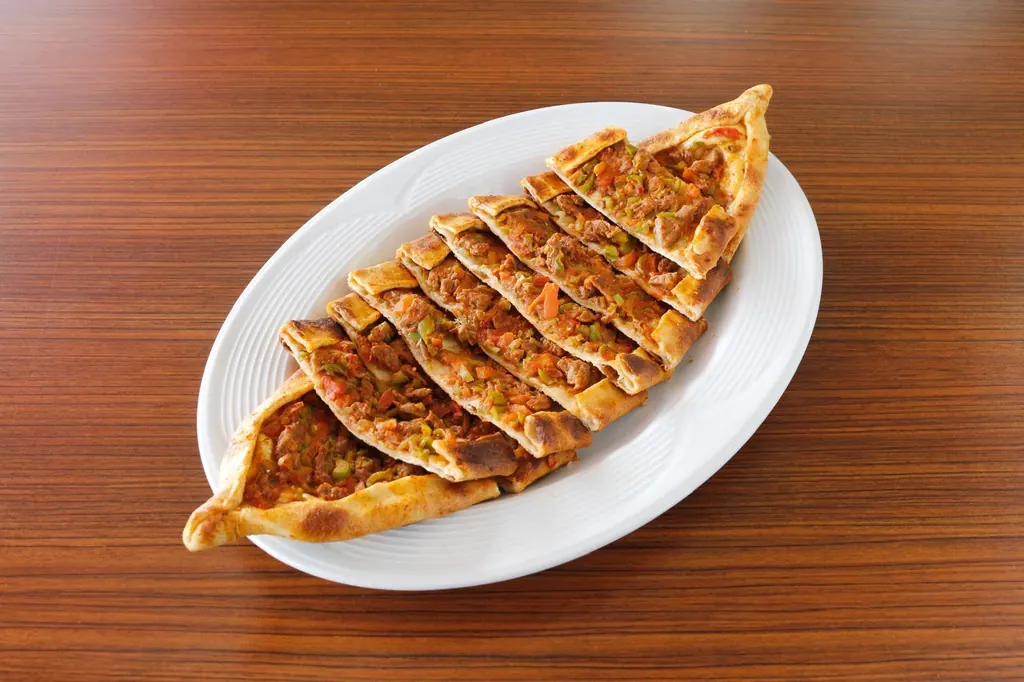
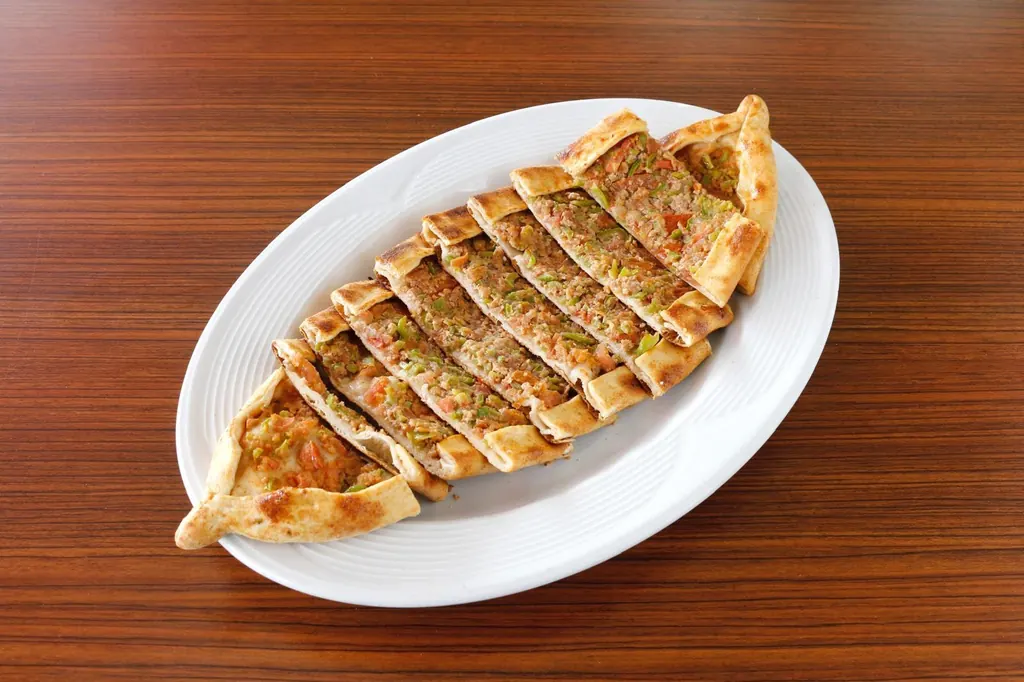
Menü basılı menüyle eşitlendi, görseller adlarıyla eşleştirildi
Bölümler ve sıralama basılı menüyü izliyor, Göbek Salata eklendi, ürün
notları kaldırıldı. Fotoğrafı olmayan ya da ayırt edilemeyen ürünlerin
görselleri broşürden kırpıldı.

diff --git a/index.html b/index.html
@@ -121,7 +121,7 @@
           <li class="reveal"><a class="cat" href="#menu" data-tab="pide">
             <span class="arch"><img src="assets/img/sucuklu-yumurtali-pide-480.webp" alt="" loading="lazy" width="480" height="320"></span>
             <strong>Pide</strong><small>Fırından çıtır çıtır</small></a></li>
-          <li class="reveal"><a class="cat" href="#menu" data-tab="lahmacun">
+          <li class="reveal"><a class="cat" href="#menu" data-tab="pide">
             <span class="arch"><img src="assets/img/lahmacun-480.webp" alt="" loading="lazy" width="480" height="320"></span>
             <strong>Lahmacun</strong><small>İnce hamur, bol iç</small></a></li>
           <li class="reveal"><a class="cat" href="#menu" data-tab="tatli">
@@ -188,142 +188,143 @@
         </div>
 
         <div class="tabs" role="tablist" aria-label="Menü kategorileri">
-          <button class="tab" type="button" role="tab" id="tab-doner" aria-controls="panel-doner" aria-selected="true">Döner &amp; İskender</button>
-          <button class="tab" type="button" role="tab" id="tab-kebap" aria-controls="panel-kebap" aria-selected="false">Izgara &amp; Kebap</button>
+          <button class="tab" type="button" role="tab" id="tab-doner" aria-controls="panel-doner" aria-selected="true">Döner</button>
+          <button class="tab" type="button" role="tab" id="tab-kebap" aria-controls="panel-kebap" aria-selected="false">Kebap</button>
           <button class="tab" type="button" role="tab" id="tab-tava" aria-controls="panel-tava" aria-selected="false">Sac Tava</button>
           <button class="tab" type="button" role="tab" id="tab-pide" aria-controls="panel-pide" aria-selected="false">Pide</button>
-          <button class="tab" type="button" role="tab" id="tab-lahmacun" aria-controls="panel-lahmacun" aria-selected="false">Lahmacun</button>
           <button class="tab" type="button" role="tab" id="tab-durum" aria-controls="panel-durum" aria-selected="false">Dürüm</button>
-          <button class="tab" type="button" role="tab" id="tab-yan" aria-controls="panel-yan" aria-selected="false">Çorba &amp; Salata</button>
+          <button class="tab" type="button" role="tab" id="tab-corba" aria-controls="panel-corba" aria-selected="false">Çorba</button>
+          <button class="tab" type="button" role="tab" id="tab-salata" aria-controls="panel-salata" aria-selected="false">Salata</button>
           <button class="tab" type="button" role="tab" id="tab-tatli" aria-controls="panel-tatli" aria-selected="false">Tatlı</button>
-          <button class="tab" type="button" role="tab" id="tab-icecek" aria-controls="panel-icecek" aria-selected="false">İçecek</button>
+          <button class="tab" type="button" role="tab" id="tab-mesrubat" aria-controls="panel-mesrubat" aria-selected="false">Meşrubat</button>
         </div>
 
         <div class="menu-board">
           <aside class="menu-preview" aria-hidden="true">
             <div class="arch arch--ring">
-              <img id="menu-preview-img" src="assets/img/iskender-1024.webp" alt="" width="1024" height="682">
+              <img id="menu-preview-img" src="assets/img/porsiyon-doner-1024.webp" alt="" width="1024" height="682">
             </div>
-            <p class="menu-preview__name" id="menu-preview-name">Tereyağlı İskender</p>
+            <p class="menu-preview__name" id="menu-preview-name">Porsiyon Et Döner</p>
           </aside>
 
           <div class="menu-panels">
             <div class="panel" role="tabpanel" id="panel-doner" aria-labelledby="tab-doner" tabindex="0">
-              <h3 class="panel__title">Döner &amp; İskender</h3>
+              <h3 class="panel__title">Döner Çeşitleri</h3>
               <ul class="menu-list">
-                <li><button class="mi" type="button" data-img="iskender"><img src="assets/img/iskender-480.webp" alt="" loading="lazy" width="56" height="56"><span class="mi__name">Tereyağlı İskender</span><span class="mi__note">Domates sosu ve tereyağıyla, közlenmiş biber eşliğinde</span></button></li>
-                <li><button class="mi" type="button" data-img="porsiyon-doner"><img src="assets/img/porsiyon-doner-480.webp" alt="" loading="lazy" width="56" height="56"><span class="mi__name">Porsiyon Et Döner</span><span class="mi__note">Patates ve közlenmiş biberle</span></button></li>
-                <li><button class="mi" type="button" data-img="pilav-ustu-doner"><img src="assets/img/pilav-ustu-doner-480.webp" alt="" loading="lazy" width="56" height="56"><span class="mi__name">Pilav Üstü Döner</span><span class="mi__note">Pirinç pilavı üzerinde</span></button></li>
-                <li><button class="mi" type="button" data-img="yarim-ekmek-doner"><img src="assets/img/yarim-ekmek-doner-480.webp" alt="" loading="lazy" width="56" height="56"><span class="mi__name">Yarım Ekmek Et Döner</span></button></li>
-                <li><div class="mi"><span class="mi__name">Üç Çeyrek Döner</span></div></li>
-                <li><div class="mi"><span class="mi__name">Tam Ekmek Döner</span></div></li>
-                <li><button class="mi" type="button" data-img="tombik-doner"><img src="assets/img/tombik-doner-480.webp" alt="" loading="lazy" width="56" height="56"><span class="mi__name">Tombik Et Döner</span></button></li>
-                <li><div class="mi"><span class="mi__name">Sandwich Döner</span></div></li>
+                <li><button class="mi" type="button" data-img="porsiyon-doner"><img src="assets/img/porsiyon-doner-480.webp" alt="" loading="lazy" width="56" height="56"><span class="mi__name">Porsiyon Et Döner</span></button></li>
+                <li><button class="mi" type="button" data-img="pilav-ustu-doner"><img src="assets/img/pilav-ustu-doner-480.webp" alt="" loading="lazy" width="56" height="56"><span class="mi__name">Pilav Üstü Döner</span></button></li>
+                <li><button class="mi" type="button" data-img="iskender"><img src="assets/img/iskender-480.webp" alt="" loading="lazy" width="56" height="56"><span class="mi__name">Tereyağlı İskender</span></button></li>
                 <li><button class="mi" type="button" data-img="et-doner-durum"><img src="assets/img/et-doner-durum-480.webp" alt="" loading="lazy" width="56" height="56"><span class="mi__name">Et Döner Dürüm</span></button></li>
+                <li><div class="mi"><span class="mi__name">Tam Ekmek Döner</span></div></li>
+                <li><div class="mi"><span class="mi__name">Üç Çeyrek Döner</span></div></li>
+                <li><button class="mi" type="button" data-img="yarim-ekmek-doner"><img src="assets/img/yarim-ekmek-doner-480.webp" alt="" loading="lazy" width="56" height="56"><span class="mi__name">Yarım Ekmek Et Döner</span></button></li>
+                <li><div class="mi"><span class="mi__name">Sandwich Döner</span></div></li>
+                <li><button class="mi" type="button" data-img="tombik-doner"><img src="assets/img/tombik-doner-480.webp" alt="" loading="lazy" width="56" height="56"><span class="mi__name">Tombik Et Döner</span></button></li>
               </ul>
             </div>
 
             <div class="panel" role="tabpanel" id="panel-kebap" aria-labelledby="tab-kebap" tabindex="0">
-              <h3 class="panel__title">Izgara &amp; Kebap</h3>
+              <h3 class="panel__title">Kebap Çeşitleri</h3>
               <ul class="menu-list">
-                <li><button class="mi" type="button" data-img="saray-karisik"><img src="assets/img/saray-karisik-480.webp" alt="" loading="lazy" width="56" height="56"><span class="mi__name">Karışık Kebap</span><span class="mi__note">Lahmacun üzerinde karışık ızgara</span></button></li>
-                <li><button class="mi" type="button" data-img="adana"><img src="assets/img/adana-480.webp" alt="" loading="lazy" width="56" height="56"><span class="mi__name">Adana Kebap</span><span class="mi__note">Bulgur pilavı, közlenmiş biber ve domatesle</span></button></li>
+                <li><button class="mi" type="button" data-img="izgara-kofte"><img src="assets/img/izgara-kofte-480.webp" alt="" loading="lazy" width="56" height="56"><span class="mi__name">Izgara Köfte</span></button></li>
+                <li><button class="mi" type="button" data-img="adana"><img src="assets/img/adana-480.webp" alt="" loading="lazy" width="56" height="56"><span class="mi__name">Adana Kebap</span></button></li>
                 <li><div class="mi"><span class="mi__name">Urfa Kebap</span></div></li>
-                <li><button class="mi" type="button" data-img="domatesli-kebap"><img src="assets/img/domatesli-kebap-480.webp" alt="" loading="lazy" width="56" height="56"><span class="mi__name">Domatesli Kebap</span><span class="mi__note">Közlenmiş domates eşliğinde</span></button></li>
-                <li><button class="mi" type="button" data-img="patlicanli-kebap"><img src="assets/img/patlicanli-kebap-480.webp" alt="" loading="lazy" width="56" height="56"><span class="mi__name">Patlıcanlı Kebap</span><span class="mi__note">Közlenmiş patlıcan dilimleriyle</span></button></li>
-                <li><div class="mi"><span class="mi__name">Beyti</span></div></li>
-                <li><button class="mi" type="button" data-img="sarma-beyti"><img src="assets/img/sarma-beyti-480.webp" alt="" loading="lazy" width="56" height="56"><span class="mi__name">Sarma Beyti</span><span class="mi__note">Lavaşa sarılı, bulgur pilavıyla</span></button></li>
-                <li><button class="mi" type="button" data-img="ali-nazik-sis"><img src="assets/img/ali-nazik-sis-480.webp" alt="" loading="lazy" width="56" height="56"><span class="mi__name">Ali Nazik (Şişten)</span><span class="mi__note">Yoğurt üzerinde, pide eşliğinde</span></button></li>
-                <li><button class="mi" type="button" data-img="ali-nazik-kebap"><img src="assets/img/ali-nazik-kebap-480.webp" alt="" loading="lazy" width="56" height="56"><span class="mi__name">Ali Nazik (Kebaptan)</span><span class="mi__note">Yoğurt üzerinde, pide eşliğinde</span></button></li>
-                <li><div class="mi"><span class="mi__name">Ali Nazik (Dönerden)</span></div></li>
-                <li><button class="mi" type="button" data-img="kuzu-sis"><img src="assets/img/kuzu-sis-480.webp" alt="" loading="lazy" width="56" height="56"><span class="mi__name">Kuzu Şiş</span><span class="mi__note">Bulgur pilavı ve közlenmiş biberle</span></button></li>
-                <li><button class="mi" type="button" data-img="cop-sis"><img src="assets/img/cop-sis-480.webp" alt="" loading="lazy" width="56" height="56"><span class="mi__name">Çöp Şiş</span><span class="mi__note">Bulgur pilavı ve lavaşla</span></button></li>
-                <li><button class="mi" type="button" data-img="izgara-kofte"><img src="assets/img/izgara-kofte-480.webp" alt="" loading="lazy" width="56" height="56"><span class="mi__name">Izgara Köfte</span><span class="mi__note">Pirinç pilavı ve patatesle</span></button></li>
-                <li><button class="mi" type="button" data-img="tavuk-sis"><img src="assets/img/tavuk-sis-480.webp" alt="" loading="lazy" width="56" height="56"><span class="mi__name">Tavuk Şiş</span><span class="mi__note">Bulgur pilavı ve közlenmiş biberle</span></button></li>
-                <li><button class="mi" type="button" data-img="tavuk-kanat"><img src="assets/img/tavuk-kanat-480.webp" alt="" loading="lazy" width="56" height="56"><span class="mi__name">Tavuk Kanat</span><span class="mi__note">Bulgur pilavı ve közlenmiş biberle</span></button></li>
+                <li><button class="mi" type="button" data-img="tavuk-sis"><img src="assets/img/tavuk-sis-480.webp" alt="" loading="lazy" width="56" height="56"><span class="mi__name">Tavuk Şiş</span></button></li>
                 <li><div class="mi"><span class="mi__name">Tavuk Pirzola</span></div></li>
-                <li><div class="mi"><span class="mi__name">Kilo Köfte</span><span class="mi__note">Kiloyla</span></div></li>
-                <li><div class="mi"><span class="mi__name">Kilo Kanat</span><span class="mi__note">Kiloyla</span></div></li>
-                <li><div class="mi"><span class="mi__name">Kilo Kemiksiz Tavuk Pirzola</span><span class="mi__note">Kiloyla</span></div></li>
+                <li><button class="mi" type="button" data-img="tavuk-kanat"><img src="assets/img/tavuk-kanat-480.webp" alt="" loading="lazy" width="56" height="56"><span class="mi__name">Tavuk Kanat</span></button></li>
+                <li><button class="mi" type="button" data-img="kuzu-sis"><img src="assets/img/kuzu-sis-480.webp" alt="" loading="lazy" width="56" height="56"><span class="mi__name">Kuzu Şiş</span></button></li>
+                <li><button class="mi" type="button" data-img="cop-sis"><img src="assets/img/cop-sis-480.webp" alt="" loading="lazy" width="56" height="56"><span class="mi__name">Çöp Şiş</span></button></li>
+                <li><div class="mi"><span class="mi__name">Beyti</span></div></li>
+                <li><button class="mi" type="button" data-img="sarma-beyti"><img src="assets/img/sarma-beyti-480.webp" alt="" loading="lazy" width="56" height="56"><span class="mi__name">Sarma Beyti</span></button></li>
+                <li><button class="mi" type="button" data-img="domatesli-kebap"><img src="assets/img/domatesli-kebap-480.webp" alt="" loading="lazy" width="56" height="56"><span class="mi__name">Domatesli Kebap</span></button></li>
+                <li><button class="mi" type="button" data-img="patlicanli-kebap"><img src="assets/img/patlicanli-kebap-480.webp" alt="" loading="lazy" width="56" height="56"><span class="mi__name">Patlıcanlı Kebap</span></button></li>
+                <li><button class="mi" type="button" data-img="ali-nazik-sis"><img src="assets/img/ali-nazik-sis-480.webp" alt="" loading="lazy" width="56" height="56"><span class="mi__name">Ali Nazik (Şişten)</span></button></li>
+                <li><button class="mi" type="button" data-img="ali-nazik-kebap"><img src="assets/img/ali-nazik-kebap-480.webp" alt="" loading="lazy" width="56" height="56"><span class="mi__name">Ali Nazik (Kebaptan)</span></button></li>
+                <li><div class="mi"><span class="mi__name">Ali Nazik (Dönerden)</span></div></li>
+                <li><button class="mi" type="button" data-img="saray-karisik"><img src="assets/img/saray-karisik-480.webp" alt="" loading="lazy" width="56" height="56"><span class="mi__name">Karışık Kebap</span></button></li>
+                <li><button class="mi" type="button" data-img="kilo-kofte" data-whole><img src="assets/img/kilo-kofte-480.webp" alt="" loading="lazy" width="56" height="56"><span class="mi__name">Kilo Köfte</span></button></li>
+                <li><button class="mi" type="button" data-img="kilo-kanat" data-whole><img src="assets/img/kilo-kanat-480.webp" alt="" loading="lazy" width="56" height="56"><span class="mi__name">Kilo Kanat</span></button></li>
+                <li><button class="mi" type="button" data-img="kilo-pirzola" data-whole><img src="assets/img/kilo-pirzola-480.webp" alt="" loading="lazy" width="56" height="56"><span class="mi__name">Kilo Kemiksiz Tavuk Pirzola</span></button></li>
               </ul>
             </div>
 
             <div class="panel" role="tabpanel" id="panel-tava" aria-labelledby="tab-tava" tabindex="0">
-              <h3 class="panel__title">Sac Tava</h3>
+              <h3 class="panel__title">Sac Tava Çeşitleri</h3>
               <ul class="menu-list">
-                <li><button class="mi" type="button" data-img="et-sac-tava"><img src="assets/img/et-sac-tava-480.webp" alt="" loading="lazy" width="56" height="56"><span class="mi__name">Sac Tava</span><span class="mi__note">Sacında, lavaşla birlikte</span></button></li>
+                <li><button class="mi" type="button" data-img="et-sac-tava"><img src="assets/img/et-sac-tava-480.webp" alt="" loading="lazy" width="56" height="56"><span class="mi__name">Sac Tava</span></button></li>
                 <li><div class="mi"><span class="mi__name">Kaşarlı Sac Tava</span></div></li>
                 <li><div class="mi"><span class="mi__name">Tavuk Sac Tava</span></div></li>
               </ul>
             </div>
 
             <div class="panel" role="tabpanel" id="panel-pide" aria-labelledby="tab-pide" tabindex="0">
-              <h3 class="panel__title">Pide</h3>
-              <ul class="menu-list">
-                <li><button class="mi" type="button" data-img="karisik-pide"><img src="assets/img/karisik-pide-480.webp" alt="" loading="lazy" width="56" height="56"><span class="mi__name">Karışık Pide</span></button></li>
-                <li><button class="mi" type="button" data-img="kasarli-pide"><img src="assets/img/kasarli-pide-480.webp" alt="" loading="lazy" width="56" height="56"><span class="mi__name">Kaşarlı Pide</span></button></li>
-                <li><button class="mi" type="button" data-img="kiymali-pide"><img src="assets/img/kiymali-pide-480.webp" alt="" loading="lazy" width="56" height="56"><span class="mi__name">Kıymalı Pide</span></button></li>
-                <li><button class="mi" type="button" data-img="kiymali-kasarli-pide"><img src="assets/img/kiymali-kasarli-pide-480.webp" alt="" loading="lazy" width="56" height="56"><span class="mi__name">Kıymalı Kaşarlı Pide</span></button></li>
-                <li><button class="mi" type="button" data-img="sucuklu-kasarli-pide"><img src="assets/img/sucuklu-kasarli-pide-480.webp" alt="" loading="lazy" width="56" height="56"><span class="mi__name">Kaşarlı Sucuklu Pide</span></button></li>
-                <li><button class="mi" type="button" data-img="sucuklu-yumurtali-pide"><img src="assets/img/sucuklu-yumurtali-pide-480.webp" alt="" loading="lazy" width="56" height="56"><span class="mi__name">Sucuklu Yumurtalı Pide</span></button></li>
-                <li><button class="mi" type="button" data-img="kavurmali-yumurtali-pide"><img src="assets/img/kavurmali-yumurtali-pide-480.webp" alt="" loading="lazy" width="56" height="56"><span class="mi__name">Kavurmalı Yumurtalı Pide</span></button></li>
-                <li><div class="mi"><span class="mi__name">Kavurmalı Kaşarlı Pide</span></div></li>
-                <li><div class="mi"><span class="mi__name">Kuşbaşılı Pide</span></div></li>
-                <li><div class="mi"><span class="mi__name">Kuşbaşılı Kaşarlı Pide</span></div></li>
-              </ul>
-            </div>
-
-            <div class="panel" role="tabpanel" id="panel-lahmacun" aria-labelledby="tab-lahmacun" tabindex="0">
-              <h3 class="panel__title">Lahmacun</h3>
+              <h3 class="panel__title">Pide Çeşitleri</h3>
               <ul class="menu-list">
                 <li><button class="mi" type="button" data-img="lahmacun"><img src="assets/img/lahmacun-480.webp" alt="" loading="lazy" width="56" height="56"><span class="mi__name">Lahmacun</span></button></li>
                 <li><div class="mi"><span class="mi__name">Özel Lahmacun</span></div></li>
+                <li><button class="mi" type="button" data-img="kusbasili-pide" data-whole><img src="assets/img/kusbasili-pide-480.webp" alt="" loading="lazy" width="56" height="56"><span class="mi__name">Kuşbaşılı Pide</span></button></li>
+                <li><button class="mi" type="button" data-img="kusbasili-kasarli-pide" data-whole><img src="assets/img/kusbasili-kasarli-pide-480.webp" alt="" loading="lazy" width="56" height="56"><span class="mi__name">Kuşbaşılı Kaşarlı Pide</span></button></li>
+                <li><button class="mi" type="button" data-img="karisik-pide"><img src="assets/img/karisik-pide-480.webp" alt="" loading="lazy" width="56" height="56"><span class="mi__name">Karışık Pide</span></button></li>
+                <li><button class="mi" type="button" data-img="kavurmali-kasarli-pide" data-whole><img src="assets/img/kavurmali-kasarli-pide-480.webp" alt="" loading="lazy" width="56" height="56"><span class="mi__name">Kavurmalı Kaşarlı Pide</span></button></li>
+                <li><button class="mi" type="button" data-img="kavurmali-yumurtali-pide"><img src="assets/img/kavurmali-yumurtali-pide-480.webp" alt="" loading="lazy" width="56" height="56"><span class="mi__name">Kavurmalı Yumurtalı Pide</span></button></li>
+                <li><button class="mi" type="button" data-img="sucuklu-yumurtali-pide"><img src="assets/img/sucuklu-yumurtali-pide-480.webp" alt="" loading="lazy" width="56" height="56"><span class="mi__name">Sucuklu Yumurtalı Pide</span></button></li>
+                <li><button class="mi" type="button" data-img="sucuklu-kasarli-pide"><img src="assets/img/sucuklu-kasarli-pide-480.webp" alt="" loading="lazy" width="56" height="56"><span class="mi__name">Kaşarlı Sucuklu Pide</span></button></li>
+                <li><button class="mi" type="button" data-img="kiymali-kasarli-pide"><img src="assets/img/kiymali-kasarli-pide-480.webp" alt="" loading="lazy" width="56" height="56"><span class="mi__name">Kıymalı Kaşarlı Pide</span></button></li>
+                <li><button class="mi" type="button" data-img="kiymali-pide"><img src="assets/img/kiymali-pide-480.webp" alt="" loading="lazy" width="56" height="56"><span class="mi__name">Kıymalı Pide</span></button></li>
+                <li><button class="mi" type="button" data-img="kasarli-pide"><img src="assets/img/kasarli-pide-480.webp" alt="" loading="lazy" width="56" height="56"><span class="mi__name">Kaşarlı Pide</span></button></li>
               </ul>
             </div>
 
             <div class="panel" role="tabpanel" id="panel-durum" aria-labelledby="tab-durum" tabindex="0">
-              <h3 class="panel__title">Dürüm</h3>
+              <h3 class="panel__title">Dürüm Çeşitleri</h3>
               <ul class="menu-list">
-                <li><button class="mi" type="button" data-img="durum"><img src="assets/img/durum-480.webp" alt="" loading="lazy" width="56" height="56"><span class="mi__name">Adana Dürüm</span></button></li>
-                <li><div class="mi"><span class="mi__name">Urfa Dürüm</span></div></li>
+                <li><button class="mi" type="button" data-img="adana-durum" data-whole><img src="assets/img/adana-durum-480.webp" alt="" loading="lazy" width="56" height="56"><span class="mi__name">Adana Dürüm</span></button></li>
+                <li><button class="mi" type="button" data-img="urfa-durum" data-whole><img src="assets/img/urfa-durum-480.webp" alt="" loading="lazy" width="56" height="56"><span class="mi__name">Urfa Dürüm</span></button></li>
                 <li><button class="mi" type="button" data-img="tavuk-sis-durum"><img src="assets/img/tavuk-sis-durum-480.webp" alt="" loading="lazy" width="56" height="56"><span class="mi__name">Tavuk Şiş Dürüm</span></button></li>
-                <li><button class="mi" type="button" data-img="et-sis-durum"><img src="assets/img/et-sis-durum-480.webp" alt="" loading="lazy" width="56" height="56"><span class="mi__name">Et Şiş Dürüm</span></button></li>
                 <li><button class="mi" type="button" data-img="et-doner-durum"><img src="assets/img/et-doner-durum-480.webp" alt="" loading="lazy" width="56" height="56"><span class="mi__name">Et Döner Dürüm</span></button></li>
                 <li><div class="mi"><span class="mi__name">Kaşarlı Döner Dürüm</span></div></li>
+                <li><button class="mi" type="button" data-img="et-sis-durum" data-whole><img src="assets/img/et-sis-durum-480.webp" alt="" loading="lazy" width="56" height="56"><span class="mi__name">Et Şiş Dürüm</span></button></li>
               </ul>
             </div>
 
-            <div class="panel" role="tabpanel" id="panel-yan" aria-labelledby="tab-yan" tabindex="0">
-              <h3 class="panel__title">Çorba &amp; Salata</h3>
+            <div class="panel" role="tabpanel" id="panel-corba" aria-labelledby="tab-corba" tabindex="0">
+              <h3 class="panel__title">Çorba Çeşitleri</h3>
               <ul class="menu-list">
-                <li><div class="mi"><span class="mi__name">Mercimek Çorbası</span></div></li>
-                <li><div class="mi"><span class="mi__name">Tavuk Suyu Çorbası</span></div></li>
-                <li><div class="mi"><span class="mi__name">Çoban Salata</span></div></li>
+                <li><button class="mi" type="button" data-img="mercimek" data-whole><img src="assets/img/mercimek-480.webp" alt="" loading="lazy" width="56" height="56"><span class="mi__name">Mercimek</span></button></li>
+                <li><div class="mi"><span class="mi__name">Tavuk Suyu</span></div></li>
+              </ul>
+            </div>
+
+            <div class="panel" role="tabpanel" id="panel-salata" aria-labelledby="tab-salata" tabindex="0">
+              <h3 class="panel__title">Salata Çeşitleri</h3>
+              <ul class="menu-list">
+                <li><button class="mi" type="button" data-img="coban-salata" data-whole><img src="assets/img/coban-salata-480.webp" alt="" loading="lazy" width="56" height="56"><span class="mi__name">Çoban Salata</span></button></li>
                 <li><button class="mi" type="button" data-img="salata"><img src="assets/img/salata-480.webp" alt="" loading="lazy" width="56" height="56"><span class="mi__name">Mevsim Salata</span></button></li>
-                <li><div class="mi"><span class="mi__name">Yeşil Salata</span></div></li>
+                <li><div class="mi"><span class="mi__name">Göbek Salata</span></div></li>
                 <li><div class="mi"><span class="mi__name">Ezme Salata</span></div></li>
                 <li><button class="mi" type="button" data-img="yogurt"><img src="assets/img/yogurt-480.webp" alt="" loading="lazy" width="56" height="56"><span class="mi__name">Yoğurt</span></button></li>
                 <li><button class="mi" type="button" data-img="cacik"><img src="assets/img/cacik-480.webp" alt="" loading="lazy" width="56" height="56"><span class="mi__name">Cacık</span></button></li>
+                <li><button class="mi" type="button" data-img="yesil-salata" data-whole><img src="assets/img/yesil-salata-480.webp" alt="" loading="lazy" width="56" height="56"><span class="mi__name">Yeşil Salata</span></button></li>
               </ul>
             </div>
 
             <div class="panel" role="tabpanel" id="panel-tatli" aria-labelledby="tab-tatli" tabindex="0">
-              <h3 class="panel__title">Tatlı</h3>
+              <h3 class="panel__title">Tatlı Çeşitleri</h3>
               <ul class="menu-list">
-                <li><button class="mi" type="button" data-img="kunefe"><img src="assets/img/kunefe-480.webp" alt="" loading="lazy" width="56" height="56"><span class="mi__name">Künefe</span><span class="mi__note">Üzeri fıstıklı</span></button></li>
+                <li><button class="mi" type="button" data-img="kunefe"><img src="assets/img/kunefe-480.webp" alt="" loading="lazy" width="56" height="56"><span class="mi__name">Künefe</span></button></li>
+                <li><button class="mi" type="button" data-img="sutlac"><img src="assets/img/sutlac-480.webp" alt="" loading="lazy" width="56" height="56"><span class="mi__name">Fırın Sütlaç</span></button></li>
                 <li><button class="mi" type="button" data-img="katmer"><img src="assets/img/katmer-480.webp" alt="" loading="lazy" width="56" height="56"><span class="mi__name">Katmer</span></button></li>
-                <li><button class="mi" type="button" data-img="sutlac"><img src="assets/img/sutlac-480.webp" alt="" loading="lazy" width="56" height="56"><span class="mi__name">Fırın Sütlaç</span><span class="mi__note">Toprak kapta</span></button></li>
               </ul>
             </div>
 
-            <div class="panel" role="tabpanel" id="panel-icecek" aria-labelledby="tab-icecek" tabindex="0">
-              <h3 class="panel__title">İçecek</h3>
+            <div class="panel" role="tabpanel" id="panel-mesrubat" aria-labelledby="tab-mesrubat" tabindex="0">
+              <h3 class="panel__title">Meşrubat Çeşitleri</h3>
               <ul class="menu-list">
-                <li><button class="mi" type="button" data-img="ayran"><img src="assets/img/ayran-480.webp" alt="" loading="lazy" width="56" height="56"><span class="mi__name">Ayran</span></button></li>
-                <li><div class="mi"><span class="mi__name">Şalgam Suyu</span></div></li>
                 <li><div class="mi"><span class="mi__name">Coca Cola</span></div></li>
                 <li><div class="mi"><span class="mi__name">Fanta</span></div></li>
                 <li><div class="mi"><span class="mi__name">Cappy Meyve Suyu</span></div></li>
+                <li><div class="mi"><span class="mi__name">Şalgam Suyu</span></div></li>
+                <li><button class="mi" type="button" data-img="ayran"><img src="assets/img/ayran-480.webp" alt="" loading="lazy" width="56" height="56"><span class="mi__name">Ayran</span></button></li>
               </ul>
             </div>
           </div>

diff --git a/assets/css/style.css b/assets/css/style.css
@@ -217,6 +217,7 @@ p { margin: 0; }
 .menu-preview .arch--ring::before { border-color: var(--red); }
 .menu-preview__name { text-align: center; margin-top: 1.6rem; font-family: var(--font-display); font-size: 1.45rem; }
 .menu-preview img.is-swap { animation: fade-in .35s ease both; }
+.menu-preview img.is-whole { object-fit: contain; background: #fff; }
 @keyframes fade-in { from { opacity: .25; } to { opacity: 1; } }
 .panel:focus-visible { outline-offset: 8px; }
 .panel[hidden] { display: none; }
@@ -226,12 +227,10 @@ p { margin: 0; }
   display: grid; grid-template-columns: auto 1fr; column-gap: 16px; align-items: center; width: 100%;
   height: 100%; min-height: 56px; padding: 12px 0; text-align: left; color: var(--text);
 }
-.mi img { grid-row: span 2; width: 56px; height: 56px; object-fit: cover; border-radius: 50%; transition: transform .25s; }
-.mi:not(:has(.mi__note)) img { grid-row: auto; }
+.mi img { width: 56px; height: 56px; object-fit: cover; border-radius: 50%; transition: transform .25s; }
 .mi__name { grid-column: 2; font-weight: 700; font-size: 1.05rem; line-height: 1.3; transition: color .2s; }
-.mi__note { grid-column: 2; color: var(--muted); font-size: .9rem; line-height: 1.4; }
 div.mi { grid-template-columns: 1fr; }
-div.mi .mi__name, div.mi .mi__note { grid-column: 1; }
+div.mi .mi__name { grid-column: 1; }
 button.mi:hover .mi__name, button.mi:focus-visible .mi__name, button.mi.is-active .mi__name { color: var(--red); }
 button.mi:hover img { transform: scale(1.1); }
 /* Yan yana iki sütun: uzun listeler ekranı doldurmasın */

diff --git a/assets/js/main.js b/assets/js/main.js
@@ -37,6 +37,7 @@
     $$('button.mi.is-active').forEach((b) => b.classList.remove('is-active'));
     button.classList.add('is-active');
     previewName.textContent = $('.mi__name', button).textContent;
+    previewImg.classList.toggle('is-whole', 'whole' in button.dataset); // broşür görseli kırpılmadan gösterilir
     if (previewImg.getAttribute('src') === src) return;
     previewImg.src = src;
     previewImg.classList.remove('is-swap');

diff --git a/scripts/optimize_images.py b/scripts/optimize_images.py
@@ -42,6 +42,12 @@ def main(src_dir):
         im = load(src_dir, spec["source"])
         if "crop" in spec:
             im = im.crop(tuple(spec["crop"]))
+        if "white" in spec:  # basılı kâğıdın grimsi zeminini beyaza çeker
+            im = im.point(lambda v: min(255, round(v * 255 / spec["white"])))
+        if "erase" in spec:  # görsele denk gelen basılı yazıyı siler
+            ImageDraw.Draw(im).rectangle(spec["erase"], fill="white")
+        if "scale" in spec:
+            im = im.resize((im.width * spec["scale"], im.height * spec["scale"]), Image.LANCZOS)
         for width in spec["widths"]:
             target = min(width, im.width)
             resized = im.resize((target, round(im.height * target / im.width)), Image.LANCZOS)

diff --git a/README.md b/README.md
@@ -26,7 +26,8 @@ Ardından tarayıcıda `http://localhost:8765` adresini açın.
 - **Telefonlar:** Tabela, işletmenin Google kaydı ve broşürü. Ek numaralar ve Instagram broşürden; Instagram adresi broşürdeki QR koddan okundu.
 - **Adres ve konum:** İşletmenin Google kaydı (5 Kasım 2026'da okundu).
 - **Saatler:** İşletmenin broşürü (07:00 – 23:00). Broşür gün belirtmiyor; Google kaydı farklı saat gösteriyor (Pzt–Cmt 08:00, Pazar 09:00 açılış).
-- **Menü:** İşletmenin basılı menüsü ve broşürü. Fiyatlar bilerek yazılmadı. Hangi fotoğrafın hangi ürüne ait olduğu görsellerden eşleştirildi.
+- **Menü:** İşletmenin basılı menüsü ve broşürü; bölümler ve sıralama basılı menüyü izler. Fiyatlar bilerek yazılmadı.
+- **Menü görselleri:** Önce işletmenin kendi fotoğrafları, broşürdeki adlı görsellerle karşılaştırılarak kullanıldı. Kendi fotoğrafı olmayan ya da hangi ürün olduğu ayırt edilemeyen ürünlerin görseli broşürden kırpıldı (manifestte kaynağı `menü/`). Hiçbir yerde görseli olmayan ürünler resimsiz listelenir.
 - **Mekân metinleri:** Dış mekân masaları, toplu yemek ve kuryeyle paket servis ifadeleri fotoğraflardan çıkarıldı.
 
 Menü `index.html` içindeki `#menu` bölümünden güncellenir.
